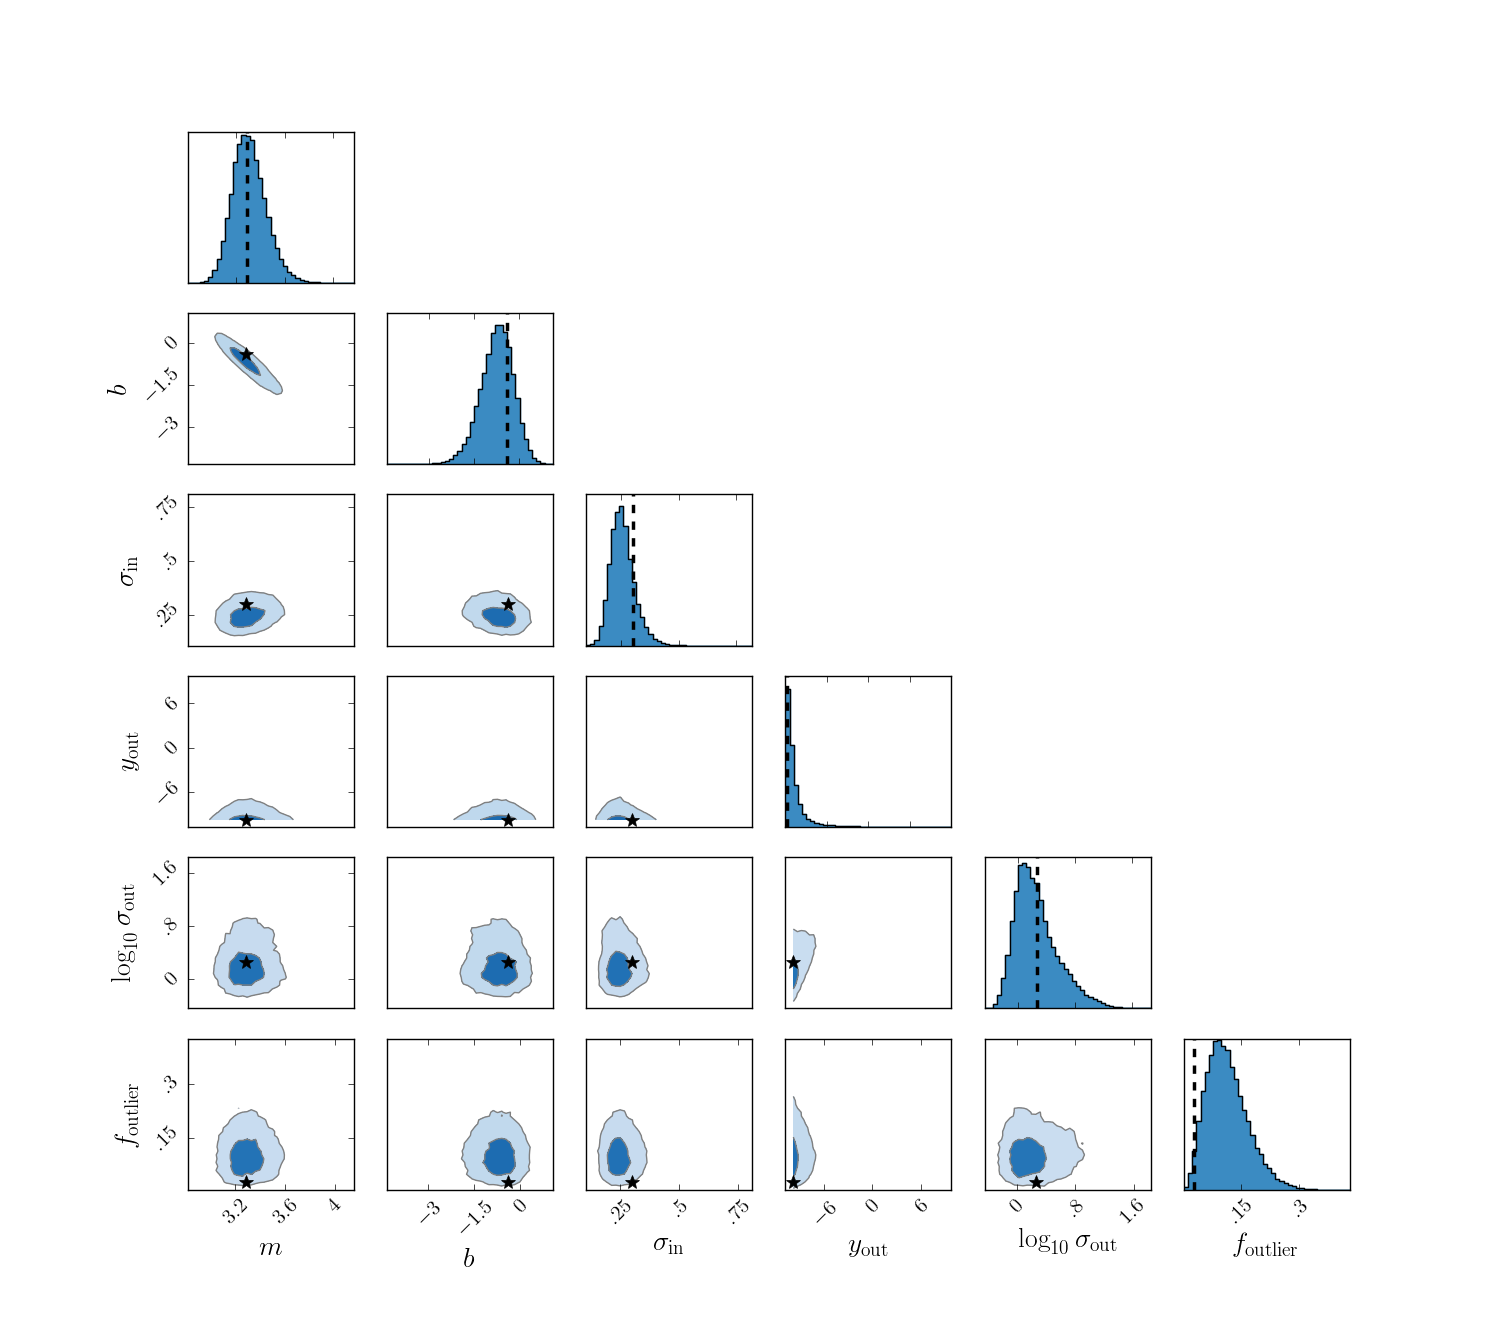
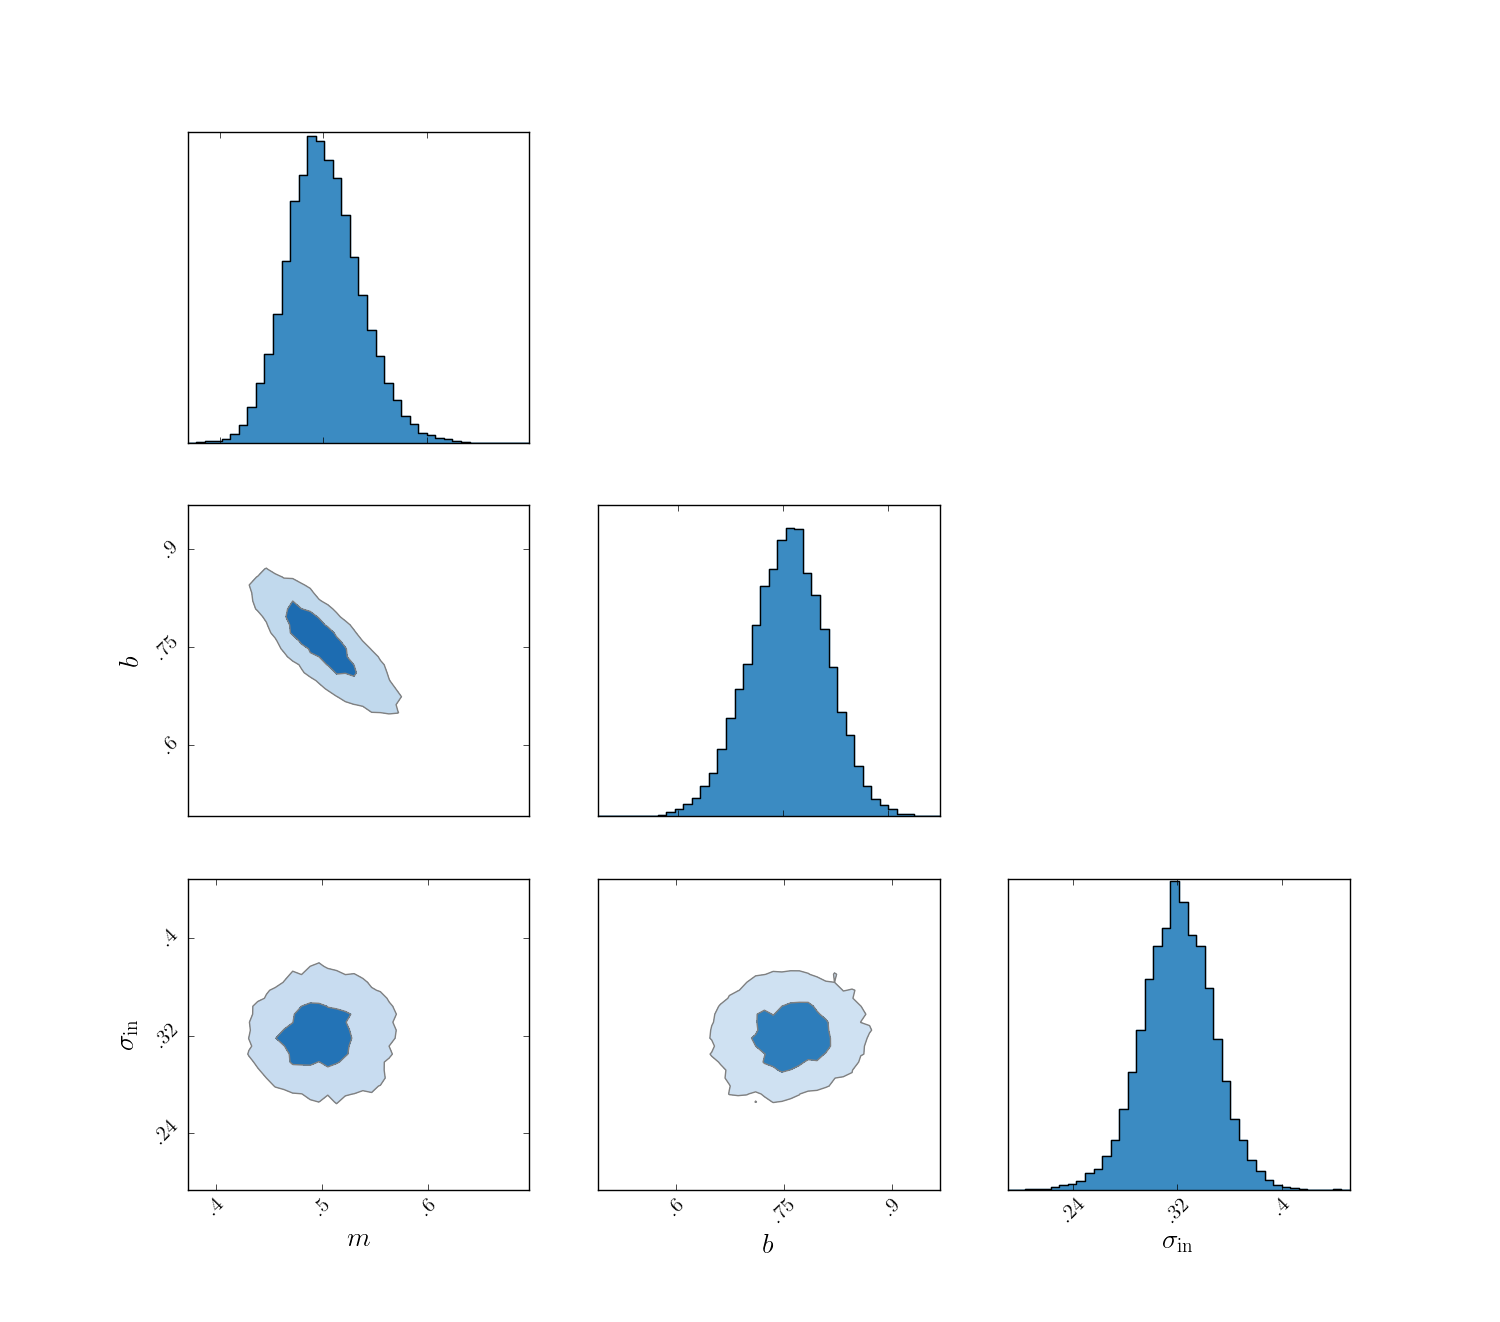
First commit of new version

diff --git a/linear_bayes/fitter.py b/linear_bayes/fitter.py
@@ -1,9 +1,11 @@
 from __future__ import division, print_function
+
 import numpy as np
 from scipy.stats import multivariate_normal
 from scipy.optimize import minimize
 import os
 import emcee
+import warnings
 
 import matplotlib.pyplot as plt
 import matplotlib.gridspec as gridspec
@@ -15,6 +17,8 @@ import matplotlib.cm as cm
 import matplotlib.colorbar as cbar
 import pylab
 import matplotlib.colors as colors
+
+warnings.filterwarnings("ignore") #sorry
 
 """This code will fit a straight line with intrinsic dispersion to data with (optionally) covariant 
 errors on both the independent and dependent variables, and takes care of outliers using a mixture 
@@ -137,56 +141,6 @@ def full_posterior(params,data,priorlimits):
     else:
         return log_priors(params,priorlimits)+full_log_likelihood(params,data)
 
-def mock_data():
-    """Generate a mock sample of 20 + a few data points with errors to test the \
-    fitting machinery.
-    Args:
-        This function takes no arguments.
-    Returns:
-        (1) np.ndarray data. A mock data-set with (x,y,dx,dy,dxy) as the columns.
-        (2) np.ndarray params. The parameters of the model.
-    """
-    #generate random slope and intercept
-    ndata = 20
-    slope = np.random.uniform(low=.1,high=1.5,size=1)
-    intercept = np.random.uniform(low=-3.,high=3.)
-    sigma_intrinsic = np.random.uniform(low=0.1,high=.3)
-    theta = np.arctan(slope)
-    #generate coordinates along the line with random intrinsic spread
-    gamma = np.random.uniform(low=1.,high=15.,size=ndata)
-    delta = np.random.normal(loc=0.,scale=sigma_intrinsic,size=ndata)
-    #now transform to x and y
-    sint,cost = np.sin(theta),np.cos(theta)
-    xp = cost*gamma - sint*delta 
-    yp = sint*gamma + cost*delta + intercept
-    #now generate x and y errors
-    dx = np.abs(np.random.normal(loc=0.,scale=0.3,size=ndata))
-    dy = np.abs(np.random.normal(loc=0.,scale=0.3*slope,size=ndata))
-    rho = np.random.uniform(-1.,1.,size=ndata) #correlation parameters
-    dxy = rho*dx*dy #off-diagonal terms
-    #now scatter xp and yp by these errors
-    x,y = np.zeros_like(xp),np.zeros_like(xp)
-    for i in np.arange(ndata):
-        cov = [[dx[i]**2.,rho[i]*dx[i]*dy[i]],[rho[i]*dx[i]*dy[i],dy[i]**2.]]
-        mean = [xp[i],yp[i]]
-        xi,yi = np.random.multivariate_normal(mean,cov,1).T
-        x[i],y[i] = np.float(xi),np.float(yi)
-    #now generate a few outliers
-    sigma_outlier = np.random.uniform(low=5.,high=10.)
-    y_mean = np.mean(y)
-    noutlier=np.random.randint(low=2,high=5)
-    y_outlier = np.random.normal(loc=y_mean,scale=sigma_outlier,size=noutlier)
-    x_outlier = np.random.uniform(low=1.3*np.min(x),high=1.3*np.max(x),size=noutlier)
-    dx_outlier = np.abs(np.random.normal(loc=0.,scale=0.3,size=noutlier))
-    dy_outlier = np.abs(np.random.normal(loc=0.,scale=0.3,size=noutlier)) #don't bother scattering through these (lazy)
-    rho_outlier = np.random.uniform(low=-1.,high=1.,size=noutlier)
-    x =np.append(x,x_outlier)
-    y=np.append(y,y_outlier)
-    dx=np.append(dx,dx_outlier)
-    dy=np.append(dy,dy_outlier)
-    dxy = np.append(dxy,rho_outlier*dx_outlier*dy_outlier)
-    return np.vstack((x,y,dx,dy,dxy)).T,np.array([slope,intercept,sigma_intrinsic,y_mean,sigma_outlier,noutlier/(noutlier+ndata)])
-
 def write_to_file(sampler,outfile,p0,Nsteps=10):
     """Write an MCMC chain from emcee to a file.
     Args:
@@ -253,18 +207,18 @@ def chain_results(chain,burnin=None):
 
 def fit_data(data,guess=None,priorlimits=[-10.,10.,-10.,10.,0.001,100.,-10.,10.,0.001,1000.],nwalkers=50,nsteps=5000\
     ,nproc=8,outfile="line_fit_chain",make_cornerplot=True,truths=None,delete_output=True):
-    """Fit the model to data using emcee. An optimization routine from scipy is first used to 
+    """
     Args:
-        (1) np.ndarray, data. Should have shape (N,4) (if no covariances on \
-            errors) or (N,5) (if covariant errors). Should be in the order \
+        (1) np.ndarray, data. Should have shape (N,4) (if no covariances on 
+            errors) or (N,5) (if covariant errors). Should be in the order 
             (x,y,dx,dy) or (x,y,dx,dy,dxy).
-        (2) np.ndarray or list, guess. A guess of the 6 model parameters. If not included \
-            then a fixed starting guess will be used (which may well be inappropriate and \
-            break everything!). Ordered as [slope,intercept,intrinsic_scatter,outlier_mean,\
+        (2) np.ndarray or list, guess. A guess of the 6 model parameters. If not included 
+            then a fixed starting guess will be used (which may well be inappropriate and 
+            break everything!). Ordered as [slope,intercept,intrinsic_scatter,outlier_mean,
             outlier_scatter,outlier_fraction].
-        (3) np.ndarray, priorlimits. Upper and lower values for each of the model parameters \
-            (except the outlier fraction which has a flat prior between 0 and 1). The limits should \
-            be provided in the order [slope,intercept,intrinsic_scatter,outlier_mean,\
+        (3) np.ndarray, priorlimits. Upper and lower values for each of the model parameters 
+            (except the outlier fraction which has a flat prior between 0 and 1). The limits should 
+            be provided in the order [slope,intercept,intrinsic_scatter,outlier_mean,
             outlier_scatter] (so that the array has 10 elements).
         (4) nwalkers (= 50), the number of emcee walkers to use in the fit.
         (5) nsteps (= 5000), the number of steps each walker should take in the MCMC.
@@ -272,10 +226,10 @@ def fit_data(data,guess=None,priorlimits=[-10.,10.,-10.,10.,0.001,100.,-10.,10.,
         (7) outfile (= "line_fit.dat"), the file to which the points in the MCMC chain will be written.
         (8) make_cornerplot (= True), make a corner plot and save it if True.
         (9) truths (= None), if you know the right answer, plot it on the corner plot.
-        (10) delete_output (= True), if True, delete the text file that stores the chain. If not, the results \
+        (10) delete_output (= True), if True, delete the text file that stores the chain. If not, the results 
             will be saved for you to analyse (e.g. with a corner plot).
     Returns:
-        (1) results, for each parameter a tuple is returned (best_fit, +err, -err) (assuming 20 per cent burn-in time), \
+        (1) results, for each parameter a tuple is returned (best_fit, +err, -err) (assuming 10 per cent burn-in time), 
             in the order (slope, intercept, intrinsic scatter, outlier mean, outlier deviation, outlier fraction).
     """
     #first make some guesses at the values for things, this could be massively improved and will probably break sometimes.
@@ -305,20 +259,32 @@ def fit_data(data,guess=None,priorlimits=[-10.,10.,-10.,10.,0.001,100.,-10.,10.,
     chain = np.genfromtxt(outfile+".temp")
     if make_cornerplot: 
         chainplot = np.copy(chain)
-        chainplot[:,5] = np.log10(chainplot[:,5])
-        labels = ["$m$","$b$","$\\sigma_\\mathrm{in}$","$y_\\mathrm{out}$","$\\log_{10}\\sigma_\\mathrm{out}$","$f_\\mathrm{outlier}$"]
+        labels = ["$m$","$b$","$\\sigma_\\mathrm{in}$"]
         if truths is not None: 
-            truths[4] = np.log10(truths[4])
-            triangle_plot(chainplot,burnin=np.int(0.2*nsteps),axis_labels=labels,fname=outfile+"_corner.pdf",truths=truths)
+            triangle_plot(chainplot[:,:4],burnin=np.int(0.1*nsteps),axis_labels=labels,fname=outfile+"_corner.pdf",truths=truths)
         else:
-            triangle_plot(chainplot,burnin=np.int(0.2*nsteps),axis_labels=labels,fname=outfile+"_corner.pdf",truths=truths)
+            triangle_plot(chainplot[:,:4],burnin=np.int(0.1*nsteps),axis_labels=labels,fname=outfile+"_corner.pdf",truths=truths)
         del chainplot
-    results = chain_results(chain,burnin=np.int(0.2*nsteps))
+    results = chain_results(chain,burnin=np.int(0.1*nsteps))
     mcmc_chain = reshape_chain(chain)
     if not delete_output:
         np.save(outfile,mcmc_chain)
     os.remove(outfile+".temp")
     return results
+
+def mock_test(nproc=8):
+    """Fit mock data to check everything is working"""
+    fake_data = np.load(os.path.join(os.path.dirname(__file__),"data","mock_data.npy"))
+    res = fit_data(fake_data,guess=None,priorlimits=[-10.,10.,-10.,10.,0.001,100.,-10.,10.,0.001,1000.],nwalkers=50,nsteps=7000\
+    ,nproc=nproc,outfile="line_fit_chain",make_cornerplot=True,truths=None,delete_output=True)
+    fig,ax = plt.subplots()
+    x = np.linspace(np.min(fake_data[:,0]),np.max(fake_data[:,0]))
+    ax.plot(x,res[0,0]*x+res[1,0],c='k',lw=3,label="fit")
+    ax.errorbar(fake_data[:,0],fake_data[:,1],xerr=fake_data[:,2],yerr=fake_data[:,3],fmt="none",ecolor='0.5',label="mock data",zorder=0)
+    ax.set_xlabel("$x$")
+    ax.set_ylabel("$y$")
+    ax.legend(loc='lower right',numpoints=1)
+    return None
 
 def my_formatter(x, pos):
     """Format 1 as 1, 0 as 0, and all values whose absolute values is between
@@ -349,6 +315,7 @@ def confidence_2d(xsamples,ysamples,ax=None,intervals=None,nbins=20,linecolor='k
             v[i] = h[sm <= v0][-1]
         except:
             v[i] = h[0]
+    v=v[::-1]
 
     xc = np.array([.5*(xedges[i]+xedges[i+1]) for i in np.arange(nbins)]) #bin centres
     yc = np.array([.5*(yedges[i]+yedges[i+1]) for i in np.arange(nbins)])
@@ -360,7 +327,7 @@ def confidence_2d(xsamples,ysamples,ax=None,intervals=None,nbins=20,linecolor='k
             plt.hist2d(xsamples,ysamples,bins=nbins,cmap=cmap)
             plt.contour(xx,yy,H,levels=v,colors=linecolor,extend='max',linewidths=linewidth)
         elif filled:
-            plt.contourf(xx,yy,H,levels=v[::-1],cmap=cmap)
+            plt.contourf(xx,yy,H,levels=v,cmap=cmap)
         else:
             plt.contour(xx,yy,H,levels=v,colors=linecolor,linewidths=linewidth)
     else:
@@ -368,7 +335,7 @@ def confidence_2d(xsamples,ysamples,ax=None,intervals=None,nbins=20,linecolor='k
             ax.hist2d(xsamples,ysamples,bins=nbins,cmap=cmap)
             ax.contour(xx,yy,H,levels=v,colors=linecolor,extend='max',linewidths=linewidth)
         elif filled:
-            ax.contourf(xx,yy,H,levels=v[::-1],cmap=cmap)
+            ax.contourf(xx,yy,H,levels=v,cmap=cmap)
             ax.contour(xx,yy,H,levels=v,colors=linecolor,extend='max',linewidths=linewidth)
         else:
             ax.contour(xx,yy,H,levels=v,colors=linecolor,linewidths=linewidth)        

diff --git a/setup.py b/setup.py
@@ -1,6 +1,8 @@
 from setuptools import setup
 
-setup(name='linear_bayes',
+setup(
+	  include_package_data=True,
+	  name='linear_bayes',
       version='0.1',
       description='Bayesian linear regression',
       url='https://github.com/anguswilliams91/LinearBayes',
@@ -8,4 +10,7 @@ setup(name='linear_bayes',
       author_email='anguswilliams91@gmail.com',
       license='MIT',
       packages=['linear_bayes'],
-      zip_safe=False)
+      package_dir={'linear_bayes': 'linear_bayes'},
+      package_data={'linear_bayes': 'data/mock_data.npy'},
+      install_requires = ['numpy','matplotlib','scipy','emcee'],
+	)

diff --git a/README.md b/README.md
@@ -5,34 +5,20 @@ line to two-dimensional data with covariant errors on the two coordinates and so
 (see e.g. [Hogg, Bovy & Lang (2010)](http://arxiv.org/abs/1008.4686) for discussion). Depends 
 on `numpy`, `scipy`, `matplotlib` and [`emcee`](https://github.com/dfm/emcee).
 
-Clone the repo, and then run
+To install using `pip`, download the zipped repo and run
 
-`python setup.py install`
+`pip install LinearBayes-master.zip`
 
-to install the module.
+to install the module (and any dependicies which aren't already installed). The function that 
+does all of the work is called `fit_data` and has an explanatory docstring.
 
-Example code:
+Example snippet, which runs a test on some mock data and produces two plots (shown below):
 
 ```python
-import matplotlib.pyplot as plt
-import numpy as np
-import linear_bayes
+import linear_bayes as lb
 
-#generate some mock data and fit it
-data,true_parameters = linear_bayes.mock_data()
-results = linear_bayes.fit_data(data,guess=true_parameters,outfile="trial_fit",make_cornerplot=True,\
-								truths=true_parameters) 
+lb.mock_test(nproc=8) #run the test case and parallelise over 8 threads
 
-#make a plot of the inference vs. data
-x = np.linspace(np.min(data[:,0]),np.max(data[:,0]))
-fig = plt.figure()
-ax = fig.add_subplot(111)
-ax.errorbar(data[:,0],data[:,1],xerr=data[:,2],yerr=data[:,3],ecolor='k',fmt='none',alpha=0.5)
-ax.plot(x,true_parameters[0]*x+true_parameters[1],label="truth")
-ax.plot(x,results[:,0][0]*x+results[:,0][1],label="inferred")
-ax.set_xlabel("$x$")
-ax.set_ylabel("$y$")
-ax.legend(loc='upper left')
 ```
 
 ![Alt text](example_fit.png?raw=true)
